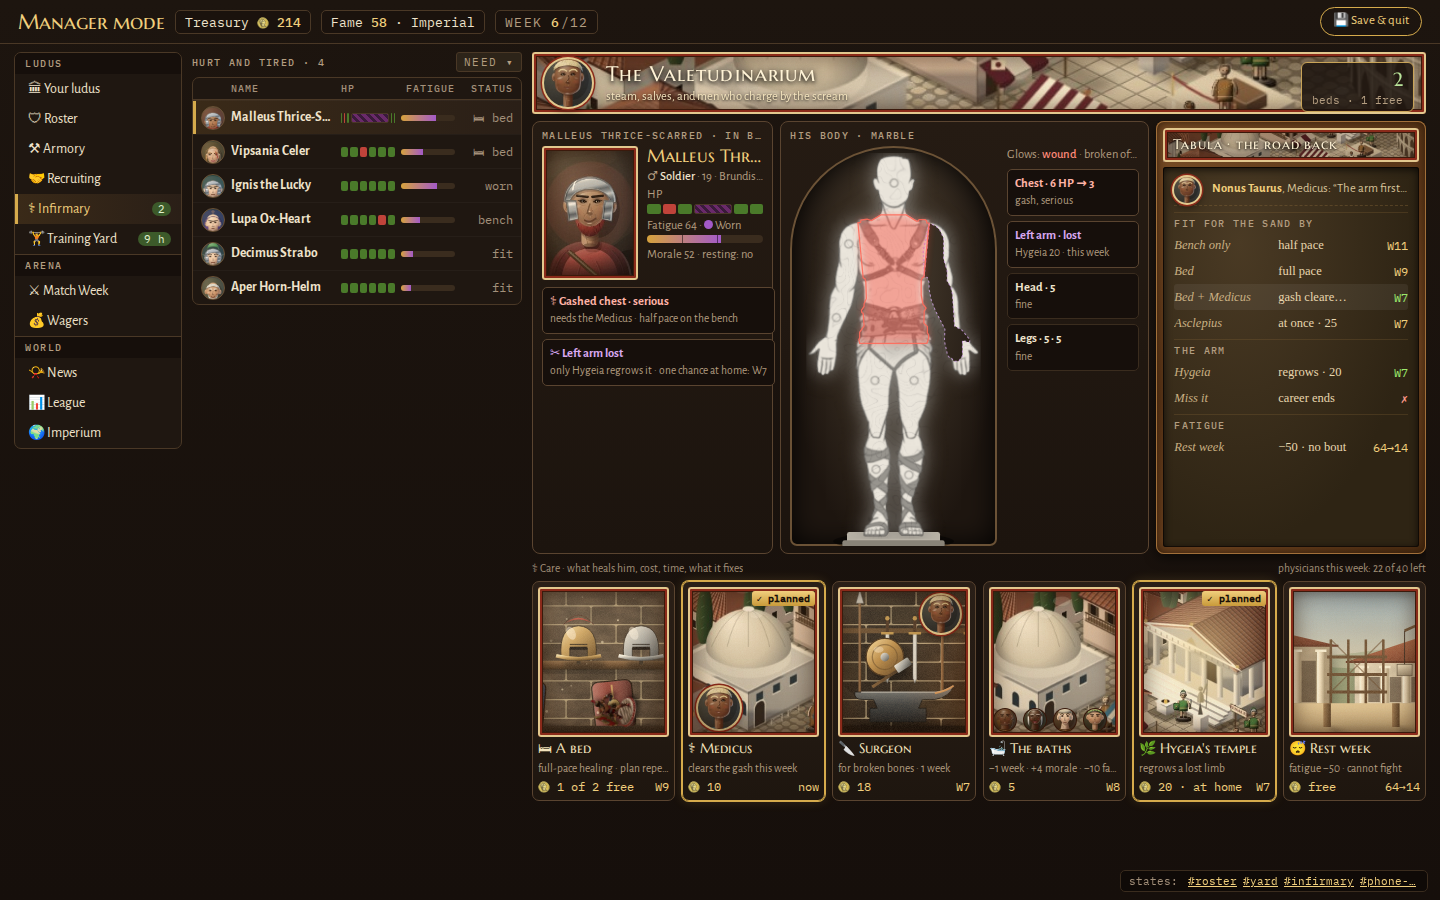
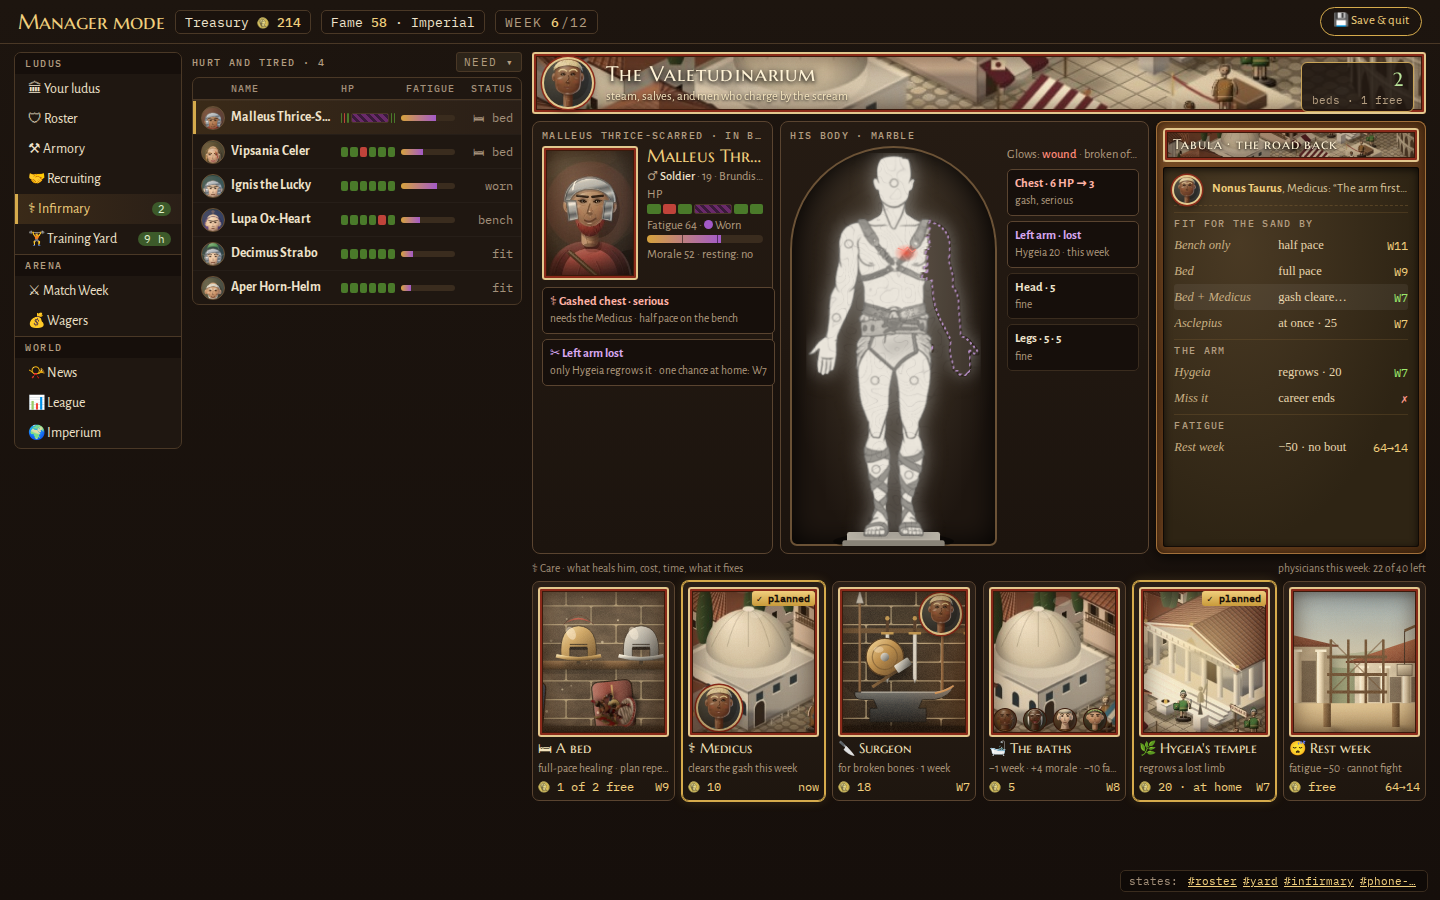
mock100: infirmary statue lost arm full size + softer wound glow [skip ci]
Claude-Session: https://claude.ai/code/session_01BLtNGuDrMd265uhsDUPs5S

Changed region(s): [[0.5938, 0.2178, 0.6875, 0.4356]]

diff --git a/tools/plans/mock100/rooms.html b/tools/plans/mock100/rooms.html
@@ -317,13 +317,14 @@ document.getElementById('care').innerHTML=CARE.map(([ic,n,fx,c,t,art],i)=>`<div 
 (function(){const S=window.SEV92||{};const W=150,H=331.7;
  const d=k=>S[k]?S[k].d:'';
  const cutL=(k)=>(S[k]&&S[k].cut||[]).map(([[x1,y1],[x2,y2]])=>`<path d="M${x1} ${y1}L${(x1+x2)/2-3} ${(y1+y2)/2+2}L${x2} ${y2}" stroke="#d8a8f0" stroke-width="1.2" stroke-dasharray="2 1.5" fill="none"/>`).join('');
- document.getElementById('statue').innerHTML=`<defs><filter id="gl" x="-30%" y="-30%" width="160%" height="160%"><feGaussianBlur stdDeviation="3"/></filter>
-  <mask id="mk"><rect x="-20" y="-20" width="200" height="380" fill="#fff"/><path d="${d('larm')}" fill="#000"/></mask></defs>
+ document.getElementById('statue').innerHTML=`<defs><filter id="gl" x="-60%" y="-60%" width="220%" height="220%"><feGaussianBlur stdDeviation="2.6"/></filter>
+  <radialGradient id="wg"><stop offset="0" stop-color="#ff4a32" stop-opacity=".75"/><stop offset=".55" stop-color="#ff4a32" stop-opacity=".3"/><stop offset="1" stop-color="#ff4a32" stop-opacity="0"/></radialGradient></defs>
   <ellipse cx="75" cy="334" rx="52" ry="7" fill="#000" opacity=".45"/>
   <rect x="35" y="326" width="80" height="12" rx="2" fill="#b8b2a6"/><rect x="31" y="333" width="88" height="6" rx="2" fill="#8a8478"/>
-  <image href="${IM}r4_marble.png" x="0" y="0" width="${W}" height="${H}" mask="url(#mk)"/>
-  <path d="${d('larm')}" fill="none" stroke="#d8a8f0" stroke-width=".9" stroke-dasharray="2 2" opacity=".75"/>${cutL('larm')}
-  <path d="${d('chest')}" fill="#ff3a2a" opacity=".38" filter="url(#gl)"/><path d="${d('chest')}" fill="none" stroke="#ff6a5a" stroke-width="1.1" opacity=".9"/>`})();
+  <image href="${IM}r4_marble_lost.png" x="0" y="0" width="${W}" height="${H}"/>
+  <image href="${IM}r4_ghost_larm.png" x="0" y="0" width="${W}" height="${H}"/>
+  <ellipse cx="86" cy="86" rx="11" ry="8" fill="url(#wg)"/>
+  <path d="M79 82l5 2 3-3 4 4 3-2" fill="none" stroke="#ff8a7a" stroke-width=".9" stroke-linecap="round" opacity=".9"/>`})();
 /* ---- state ---- */
 const BAN={roster:[`<div class="pic">${typeof SCENE99==='function'?SCENE99('team','banner'):''}</div>`,IM+'r3_c_barracks.png','The roster','the men and women who carry your name onto the sand','<b>8</b><small>fighters · 3 starters</small>'],
  yard:[pic(IM+'m4_yardban.jpg','center 50%'),IM+'r3_c_doctore.png','Training Yard','dust, sweat and the Doctore’s stick','<b>9 h</b><small>of 16 this week</small>'],

diff --git a/tools/plans/mock100/rooms_art.py b/tools/plans/mock100/rooms_art.py
@@ -30,3 +30,22 @@ c=ramp(t);pat=(t<0.3)[...,None]*np.array([-.05,.12,.06])*(noise(fw,fh,6,11)[...,
 yy,xx=np.mgrid[0:fh,0:fw];r=np.hypot(xx-fw/2,yy-fh/2)/(fw/2);alpha=(r<0.98).astype(np.float32)
 Image.fromarray((np.dstack([c,alpha])*255).astype(np.uint8)).save(os.path.join(D,'r4_doctore_bronze.png'))
 print('ok')
+# --- round 4b: the LOST LEFT ARM from the statue's own pixels (body's left = image right). Cut on SEV92's shoulder line (×2.4 to avatar px).
+mk=np.array(Image.open(A))[...,3]>200;Hh,Ww=mk.shape;yy,xx=np.mgrid[0:Hh,0:Ww]
+p1=np.array([243.4,248.6]);p2=np.array([253.7,145.2])        # shoulder cut (x,y)
+def linex(y):return p1[0]+(p2[0]-p1[0])*(y-p1[1])/(p2[1]-p1[1])
+rr=np.random.default_rng(3);jag=np.repeat(rr.integers(-5,6,Hh//6+2),6)[:Hh].astype(float)  # jagged break, 6 px steps
+side=xx-np.vectorize(linex)(yy)
+arm=mk&(((yy<=262)&(side>jag[yy]))|((yy>262)&(xx>=259)))&(yy>=120)
+# the stump's broken face: a dark rim on the body side of the break
+rim=mk&~arm&(np.abs(side-jag[yy])<4)&(yy>=140)&(yy<=262)
+ma=np.array(Image.open(os.path.join(D,'r4_marble.png'))).astype(np.float32)
+halo=np.array(Image.fromarray((arm*255).astype(np.uint8)).filter(ImageFilter.MaxFilter(5)))>0   # the arm + its antialiased edge; the soft glow around the statue stays
+ma[(halo|arm)&~(mk&~arm),3]=0
+ma[rim,:3]*=0.62;ma[rim,:3]+=np.array([20,16,12])
+Image.fromarray(np.clip(ma,0,255).astype(np.uint8)).save(os.path.join(D,'r4_marble_lost.png'))
+# ghost: the arm at FULL size, a faint fill + a dashed outline
+am=Image.fromarray((arm*255).astype(np.uint8));ed=np.array(am.filter(ImageFilter.FIND_EDGES).filter(ImageFilter.MaxFilter(3)))>0
+dash=((xx+yy)//7)%2==0
+g=np.zeros((Hh,Ww,4),np.uint8);g[arm]=(236,226,214,34);g[ed&dash]=(216,168,240,200)
+Image.fromarray(g).save(os.path.join(D,'r4_ghost_larm.png'));print('lost arm ok',int(arm.sum()))

diff --git a/tools/plans/mock100/NOTES-rooms.md b/tools/plans/mock100/NOTES-rooms.md
@@ -49,3 +49,8 @@ Open points:
 - Roster still has about 60 px empty at the bottom at 1440.
 - The bed plate uses the barracks scene, since the game has no bed art.
 - The trials' payout texts and the infirmary's fit weeks are illustrative, not computed.
+- **Fix (4b):** the lost left arm is now cut from the statue's own pixels (avatar alpha, split on SEV92's shoulder line).
+  - The statue ends in a jagged break with a darker rim at the shoulder.
+  - The missing arm shows at full size as a faint fill with a dashed outline (`r4_marble_lost.png` + `r4_ghost_larm.png`). Before, the shrunken SEV92 shape was masked out.
+  - The chest wound glows only on a small soft spot with a gash mark, no longer over the whole torso.
+  - No other state has a severed limb.
